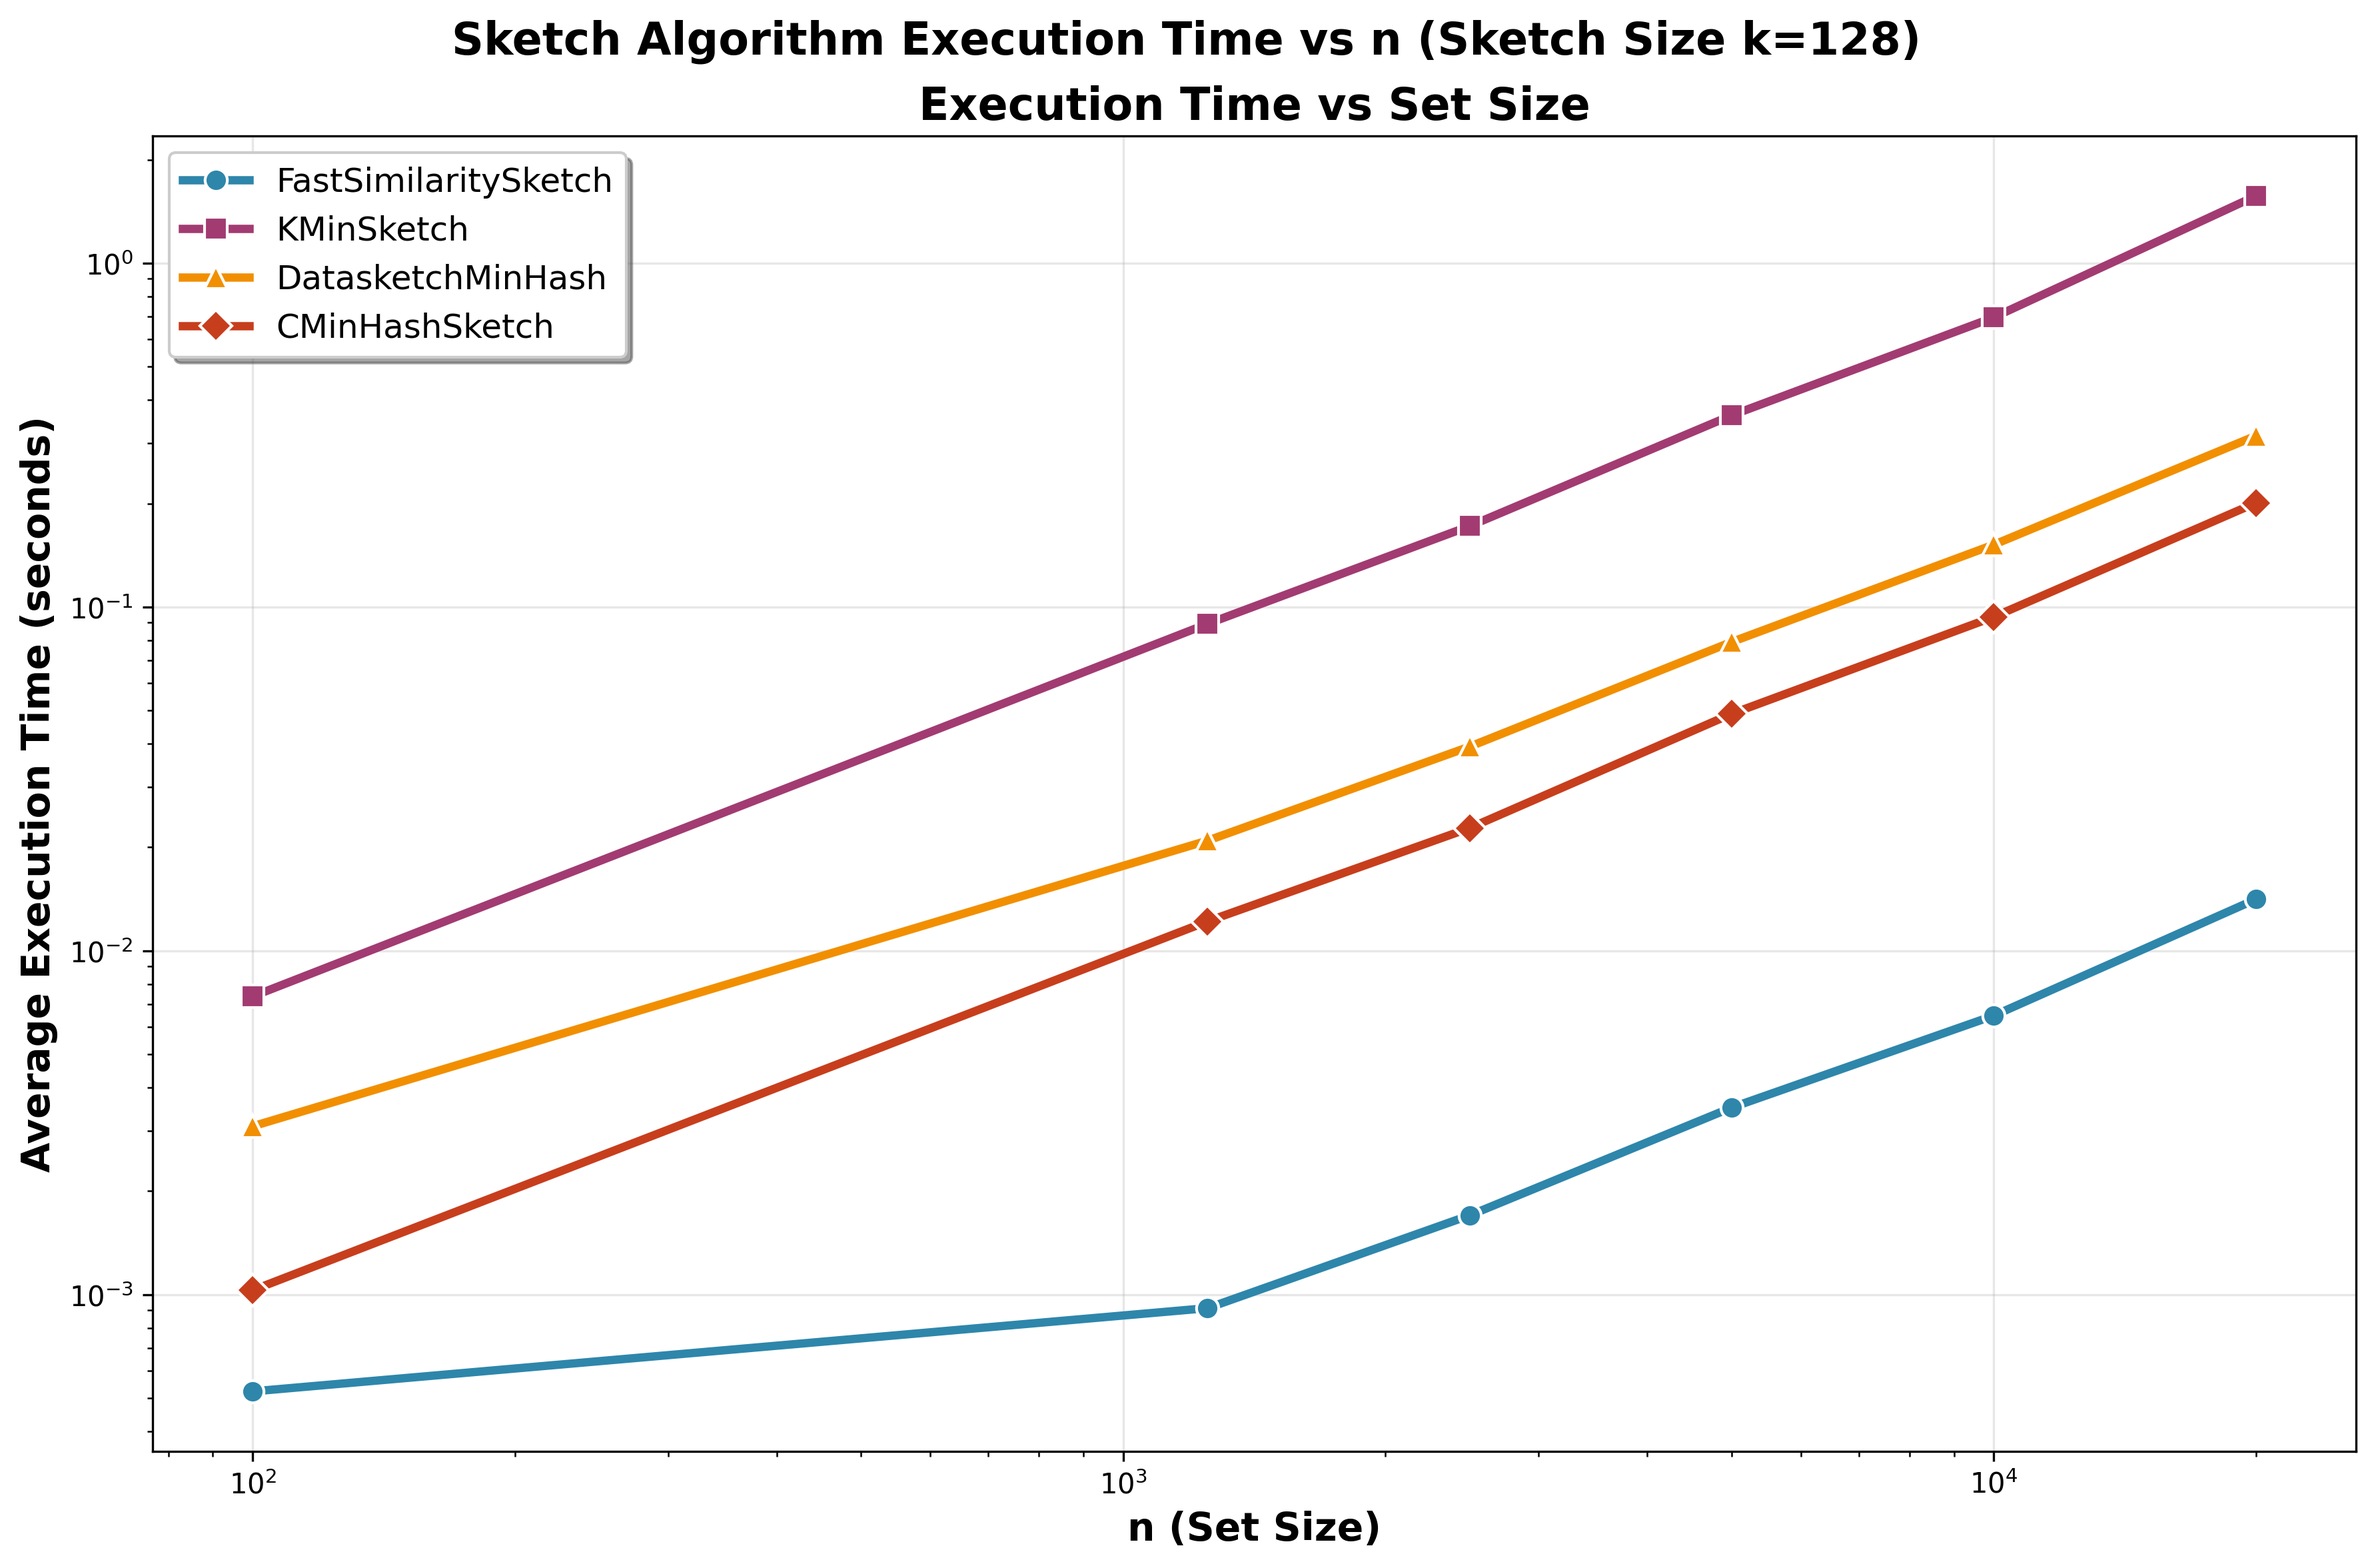
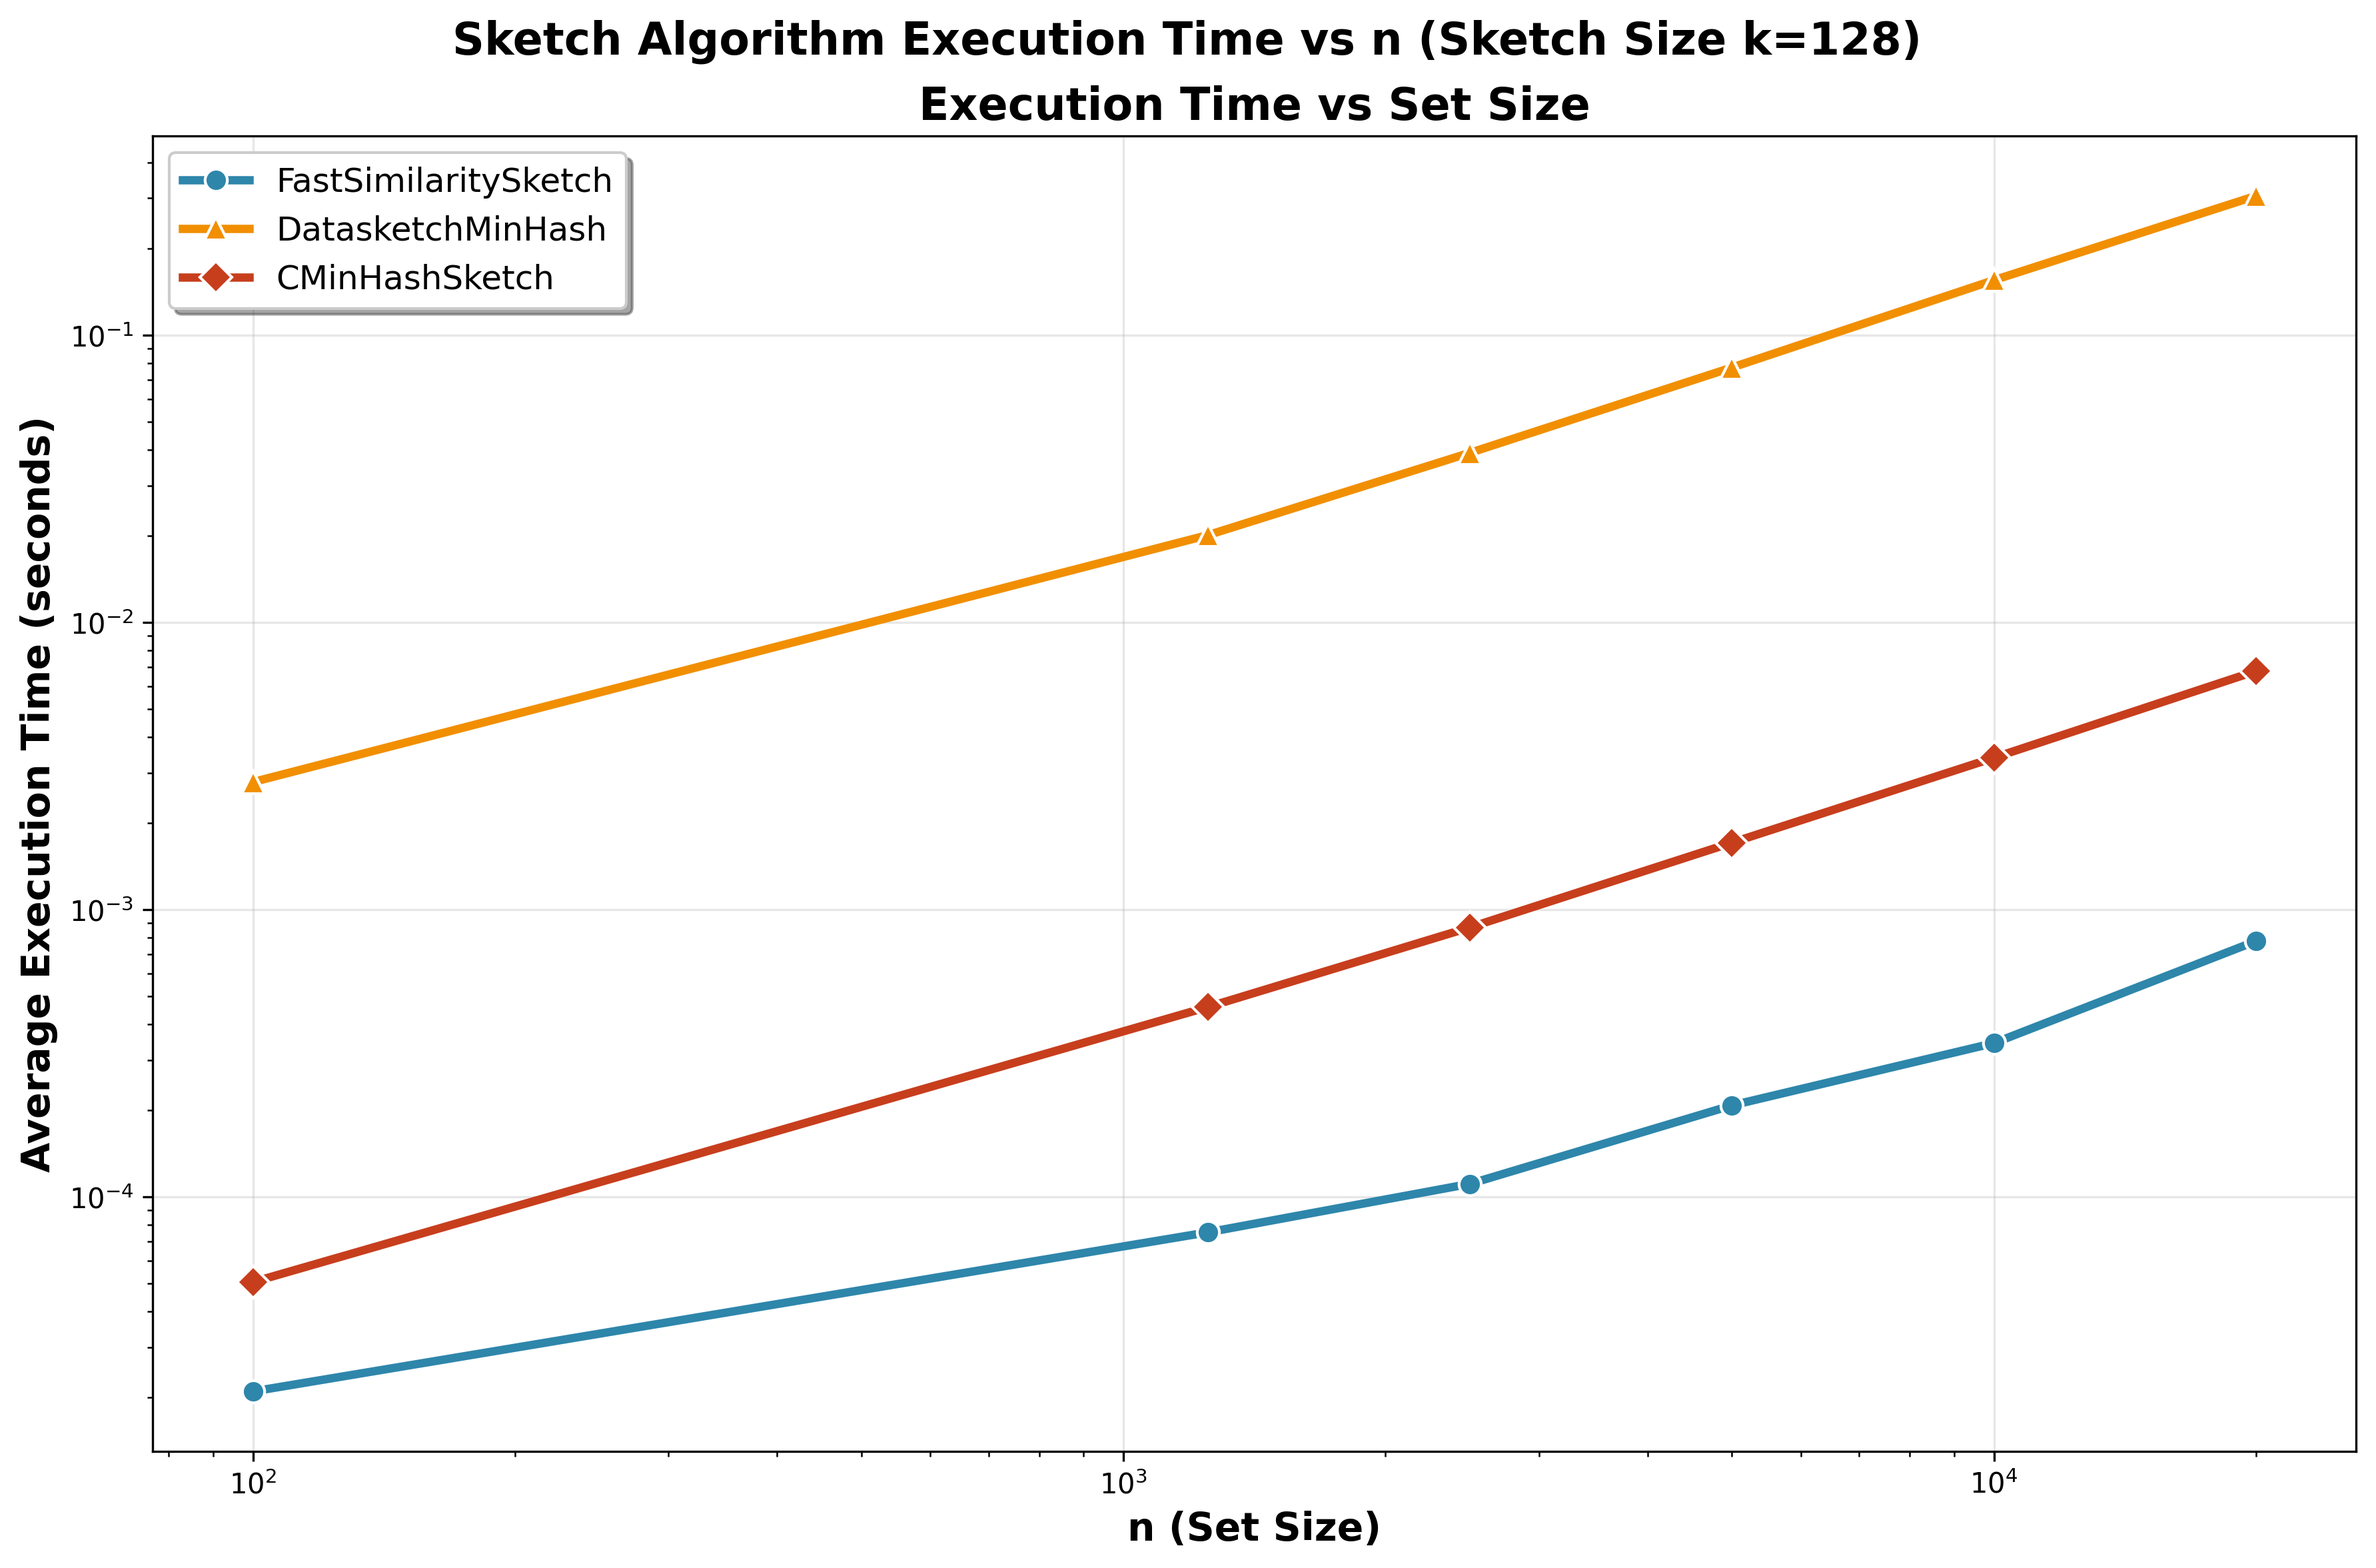
Updateenhance fast_sketch_lsh_simulation.py with plotting functions, and add generated figures for LSH and k-mins distributions.

diff --git a/simulation/fast_sketch_lsh_simulation.py b/simulation/fast_sketch_lsh_simulation.py
@@ -15,6 +15,8 @@ import numpy as np
 import sys
 import os
 from typing import Set, Tuple
+import matplotlib.pyplot as plt
+from math import comb as math_comb
 
 # Add src directory to path for imports
 sys.path.append(os.path.join(os.path.dirname(__file__), '..'))
@@ -22,9 +24,102 @@ sys.path.append(os.path.join(os.path.dirname(__file__), '..', 'src'))
 sys.path.append(os.path.join(os.path.dirname(__file__)))
 
 from src.fast_sketch_lsh import FastSketchLSH
-from util import generate_interval_sets_with_jaccard
+from src.fast_sketch import FastSimilaritySketch
+from util import generate_interval_sets_with_jaccard, estimate_jaccard
 
-def test_lsh_collision(set_A: Set[int], set_B: Set[int], bands: int, sketch_size: int, random_seed: int = 42) -> bool:
+# Make fonts bigger globally
+plt.rcParams.update({
+    'font.size': 16,
+    'axes.titlesize': 22,
+    'axes.labelsize': 18,
+    'xtick.labelsize': 14,
+    'ytick.labelsize': 14,
+    'legend.fontsize': 14,
+})
+
+def _ensure_figures_dir() -> str:
+    # Save figures in the same directory as this script
+    figures_dir = os.path.dirname(__file__)
+    os.makedirs(figures_dir, exist_ok=True)
+    return figures_dir
+
+def plot_lsh_curve(j_values: np.ndarray, collision_probs: np.ndarray, k: int, b: int, r: int) -> None:
+    figures_dir = _ensure_figures_dir()
+    plt.figure(figsize=(12, 8))
+    # Plot theoretical k-mins LSH curve: 1 - (1 - J^r)^b
+    x_dense = np.linspace(0.0, 1.0, 1000)
+    y_theory = 1.0 - (1.0 - x_dense**r)**b
+    plt.plot(x_dense, y_theory, linestyle='-', linewidth=2.5, color='red', label=f'k-mins LSH Theoretical (b={b}, r={r})')
+
+    # Plot FastSketch LSH simulated curve
+    plt.plot(j_values, collision_probs, marker='o', linestyle='-', linewidth=2.5, markersize=6, color='C0', label='FastSketch LSH (simulated)')
+    # Vertical line at J=0.7
+    plt.axvline(0.7, color='grey', linestyle='--', linewidth=2)
+    plt.xlim(0, 1)
+    plt.ylim(0, 1)
+    plt.xlabel('Jaccard(A,B) = J')
+    plt.ylabel('P(A and B in the same band)')
+    plt.title(f'k = {k}, b = {b}, r = {r}')
+    plt.grid(True, linestyle=':', alpha=0.6)
+    plt.legend(loc='lower right', frameon=False)
+    out_path = os.path.join(figures_dir, 'lsh_curve.png')
+    plt.tight_layout()
+    plt.savefig(out_path, dpi=300)
+    plt.close()
+
+def _kmins_prob_curve(x: np.ndarray, k: int, theta: float) -> np.ndarray:
+    imin = int(np.ceil(theta * k))
+    # Precompute binomial coefficients
+    binom_coeffs = np.array([math_comb(k, i) for i in range(imin, k + 1)], dtype=float)
+    y = np.zeros_like(x)
+    # Sum_{i=imin..k} C(k,i) x^i (1-x)^{k-i}
+    for idx, i in enumerate(range(imin, k + 1)):
+        y += binom_coeffs[idx] * (x ** i) * ((1 - x) ** (k - i))
+    return y
+
+def plot_kmins_and_fastsketch_distribution(k_for_kmins: int, theta: float, t_fast: int, j_values: np.ndarray, set_size: int = 10000, random_seed: int = 52) -> None:
+    figures_dir = _ensure_figures_dir()
+    # k-mins theoretical curve over J
+    x = np.asarray(j_values)
+    y_kmins = _kmins_prob_curve(x, k_for_kmins, theta)
+
+    # FastSketch simulated acceptance probability: P(estimate >= theta)
+    sketcher = FastSimilaritySketch(sketch_size=t_fast, random_seed=random_seed)
+    y_fast = np.zeros_like(x, dtype=float)
+    for idx, J in enumerate(x):
+        if 0.37 <= J <= 0.9:
+            num_tests = 2000
+        else:
+            num_tests = 100
+        accept = 0
+        for test_idx in range(num_tests):
+            set_A, set_B, _ = generate_interval_sets_with_jaccard(J, set_size, start_id=test_idx * 10000 + idx * 1000000)
+            sketch_A = sketcher.sketch(set_A)
+            sketch_B = sketcher.sketch(set_B)
+            est = estimate_jaccard(sketch_A, sketch_B)
+            if est >= theta:
+                accept += 1
+        y_fast[idx] = accept / num_tests
+
+    # Plot both curves on the same axes
+    plt.figure(figsize=(12, 8))
+    plt.plot(x, y_kmins, color='C3', linewidth=2.5, label=f'k-mins Theoretical (k={k_for_kmins}, θ={theta:.2f})')
+    plt.plot(x, y_fast, 'o-', color='C0', linewidth=2.0, markersize=5, label=f'FastSketch Simulated (t={t_fast}, θ={theta:.2f})')
+    plt.xlim(0, 1)
+    plt.ylim(0, 1)
+    plt.xlabel('Jaccard(A,B) = J')
+    plt.ylabel('Probability')
+    plt.title('k-mins Theoretical vs FastSketch (Probability Curves)')
+    plt.grid(True, linestyle=':', alpha=0.6)
+    plt.legend(loc='lower right', frameon=False)
+    # Vertical line at J=theta
+    plt.axvline(theta, color='grey', linestyle='--', linewidth=2)
+    out_path = os.path.join(figures_dir, 'kmins_theory_and_fastsketch_distribution.png')
+    plt.tight_layout()
+    plt.savefig(out_path, dpi=300)
+    plt.close()
+
+def test_lsh_collision(set_A: Set[int], set_B: Set[int], bands: int, sketch_size: int, random_seed: int = 1234) -> bool:
     """
     Test if two sets collide in at least one LSH band using FastSketch.
     
@@ -55,7 +150,7 @@ def simulate_lsh_curve(
     set_size: int, 
     bands: int, 
     sketch_size: int
-) -> (np.ndarray, np.ndarray):
+) -> tuple[np.ndarray, np.ndarray]:
     """
     Simulate LSH collision probability for different Jaccard similarities.
     For Jaccard in [0.5, 0.9], use 500 tests; otherwise, use 100 tests.
@@ -77,8 +172,8 @@ def simulate_lsh_curve(
     num_tests_per_jaccard = np.zeros(len(jaccard_values), dtype=int)
     
     for i, target_jaccard in enumerate(jaccard_values):
-        # Use 500 tests for 0.5 <= Jaccard <= 0.9, else 100
-        if 0.4 <= target_jaccard <= 0.9:
+        # Use 500 tests for 0.37 <= Jaccard <= 0.9, else 100
+        if 0.37 <= target_jaccard <= 0.9:
             num_tests = 2000
         else:
             num_tests = 100
@@ -134,9 +229,31 @@ def main():
         'set_size': set_size
     }
     
-    output_file = "simulation/fast_sketch_lsh_results.npy"
+    # Save results in the same directory as this script
+    output_file = os.path.join(os.path.dirname(__file__), "fast_sketch_lsh_results.npy")
     np.save(output_file, results)
     print(f"\nResults saved to {output_file}")
+
+    # === Plot and save LSH figure ===
+    plot_lsh_curve(
+        j_values=jaccard_values,
+        collision_probs=collision_probs,
+        k=sketch_size,
+        b=bands,
+        r=rows_per_band,
+    )
+    print("LSH figure saved next to the script (lsh_curve.png)")
+
+    # === Plot and save k-mins theoretical + FastSketch distribution figure ===
+    plot_kmins_and_fastsketch_distribution(
+        k_for_kmins=sketch_size,
+        theta=0.70,
+        t_fast=sketch_size,
+        j_values=jaccard_values,
+        set_size=1000,
+        random_seed=52,
+    )
+    print("k-mins theory + FastSketch probability curves saved next to the script (kmins_theory_and_fastsketch_distribution.png)")
     
     # Print summary statistics
     print(f"\nSummary:")
